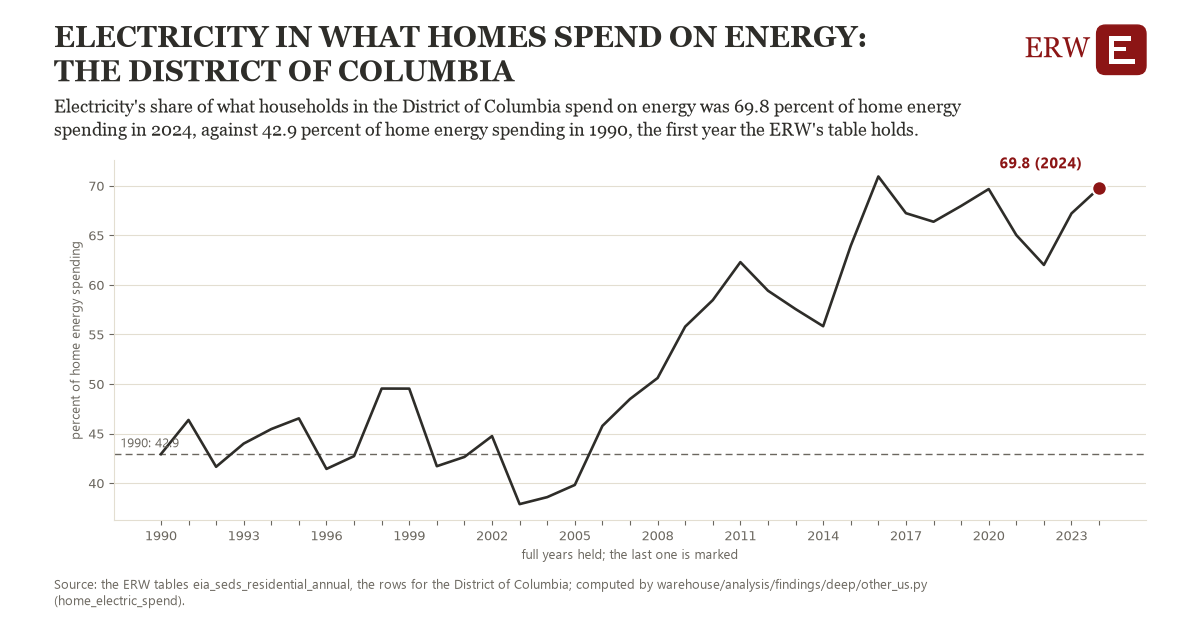
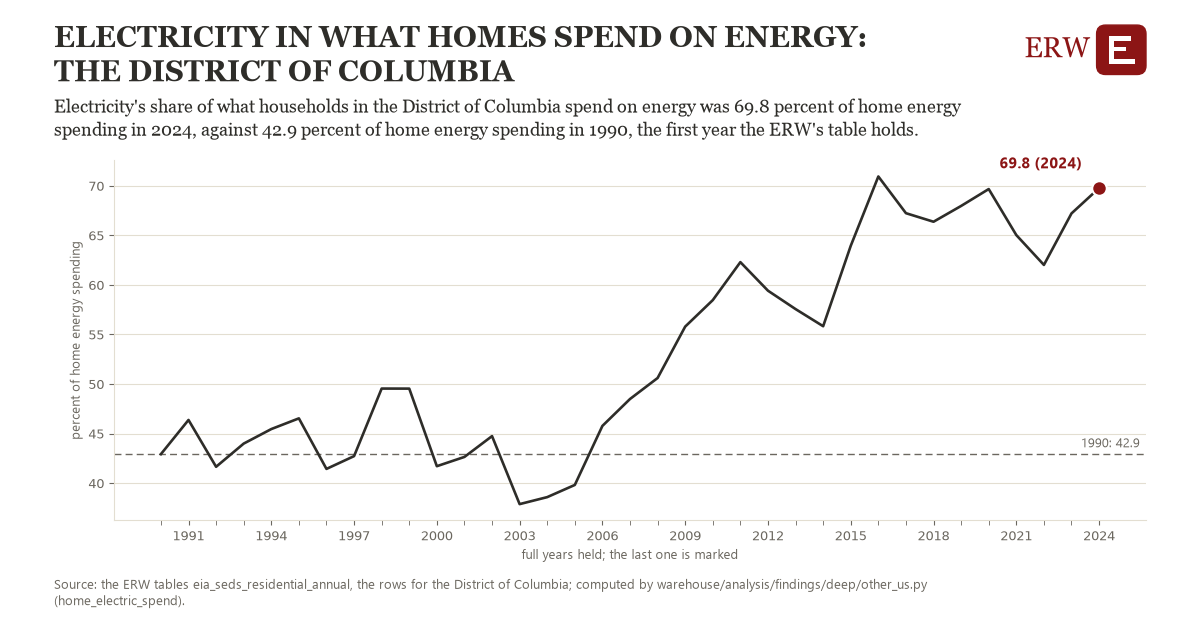
Session 9821: findings charts 271 to 280 drawn again (part 3); drafts stay drafts

diff --git a/docs/reviews/findings-charts-2026-11-20.md b/docs/reviews/findings-charts-2026-11-20.md
@@ -291,5 +291,15 @@ Energy Research Warehouse (ERW). Written by the desktop's fourth window, session
 | 268 | [tariffs_policy/res-price-res-price-hi](https://github.com/SamuelEnrique/erw/blob/main/docs/findings/tariffs_policy/res-price-res-price-hi.png) | 3 (passed the audit) | the marked figure (404.8 (2025)) sat on the line; the marked figure printed 404.8 where the sentence says otherwise (the card's value rounded to six decimals) | drawn again: label moved clear of the line; drawn from the CSV at full precision, so the image prints the sentence's figure; the image's figure 404.7 is the draft's |
 | 269 | [generation_pipeline/fleet-hours-ercot-fleet-battery-operating-mwh-per-mw](https://github.com/SamuelEnrique/erw/blob/main/docs/findings/generation_pipeline/fleet-hours-ercot-fleet-battery-operating-mwh-per-mw.png) | 3 (passed the audit) | nothing found | drawn again by the fixed code; the image's figure 1.55 is the draft's |
 | 270 | [queues_deals_datacenters/hosting-sites-est518-ca](https://github.com/SamuelEnrique/erw/blob/main/docs/findings/queues_deals_datacenters/hosting-sites-est518-ca.png) | 3 (passed the audit) | the first year's label (2012: 2,097) sat on the line | drawn again: label moved clear of the line; the image's figure 2,698 is the draft's |
+| 271 | [other_us/home-electric-spend-home-elec-dc](https://github.com/SamuelEnrique/erw/blob/main/docs/findings/other_us/home-electric-spend-home-elec-dc.png) | 3 (passed the audit) | the first year's label (1990: 42.9) sat on the line; the marked year 2024 had no label on the axis | drawn again: label moved clear of the line; axis labels counted back from the marked year; the image's figure 69.8 is the draft's |
+| 272 | [cross_family/storage-per-solar-caiso-bat-solar](https://github.com/SamuelEnrique/erw/blob/main/docs/findings/cross_family/storage-per-solar-caiso-bat-solar.png) | 3 (passed the audit) | no ink zero line (docs/brand.md, section 6), though zero is on the scale | drawn again: ink zero line drawn; the image's figure 2.17 is the draft's |
+| 273 | [generation_pipeline/nuclear-share-state-nuc-us](https://github.com/SamuelEnrique/erw/blob/main/docs/findings/generation_pipeline/nuclear-share-state-nuc-us.png) | 3 (passed the audit) | the marked figure (17.7 (2025)) sat on the line | drawn again: label moved clear of the line; the image's figure 17.7 is the draft's |
+| 274 | [demand/sub-night-share-pjm-sub-bc](https://github.com/SamuelEnrique/erw/blob/main/docs/findings/demand/sub-night-share-pjm-sub-bc.png) | 3 (passed the audit) | nothing found | drawn again by the fixed code; the image's figure 86.9 is the draft's |
+| 275 | [generation_pipeline/hydro-share-state-hyc-id](https://github.com/SamuelEnrique/erw/blob/main/docs/findings/generation_pipeline/hydro-share-state-hyc-id.png) | 3 (passed the audit) | the first year's label (2001: 77.3) sat on the line; the marked figure (43.6 (2025)) sat on the line | drawn again: label moved clear of the line; the image's figure 43.6 is the draft's |
+| 276 | [generation_pipeline/fleet-hours-us-fleet-battery-operating-mwh-per-mw](https://github.com/SamuelEnrique/erw/blob/main/docs/findings/generation_pipeline/fleet-hours-us-fleet-battery-operating-mwh-per-mw.png) | 3 (passed the audit) | the first year's label (2015: 0.61) sat on the line | drawn again: label moved clear of the line; the image's figure 2.77 is the draft's |
+| 277 | [prices/hour-to-hour-move-ercot-hb-houston](https://github.com/SamuelEnrique/erw/blob/main/docs/findings/prices/hour-to-hour-move-ercot-hb-houston.png) | 3 (passed the audit) | nothing found | drawn again by the fixed code; the image's figure 3.11 is the draft's |
+| 278 | [regions/gas-share-st-sw-ng](https://github.com/SamuelEnrique/erw/blob/main/docs/findings/regions/gas-share-st-sw-ng.png) | 3 (passed the audit) | the first year's label (2001: 14.4) sat on the line; the marked figure (40.5 (2025)) sat on the line | drawn again: label moved clear of the line; the image's figure 40.5 is the draft's |
+| 279 | [queues_deals_datacenters/hosting-jobs-jobs518-us](https://github.com/SamuelEnrique/erw/blob/main/docs/findings/queues_deals_datacenters/hosting-jobs-jobs518-us.png) | 3 (passed the audit) | the first year's label (2012: 433,438) sat on the line | drawn again: label moved clear of the line; the image's figure 629,527 is the draft's |
+| 280 | [trade/pair-against-summer-rp-can-ny](https://github.com/SamuelEnrique/erw/blob/main/docs/findings/trade/pair-against-summer-rp-can-ny.png) | 3 (passed the audit) | no ink zero line (docs/brand.md, section 6), though zero is on the scale | drawn again: ink zero line drawn; the image's figure 49.8 is the draft's |
 
-270 charts so far.
+280 charts so far.
